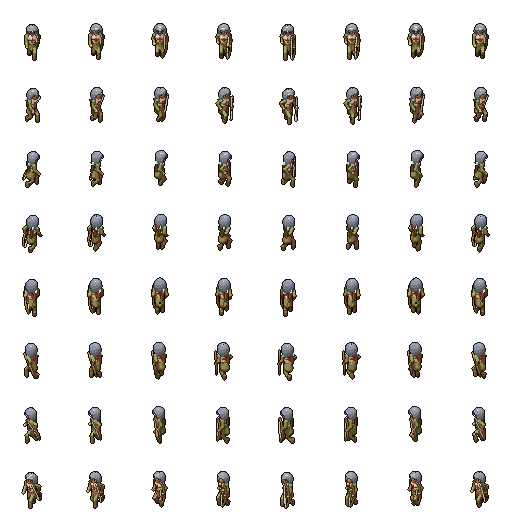
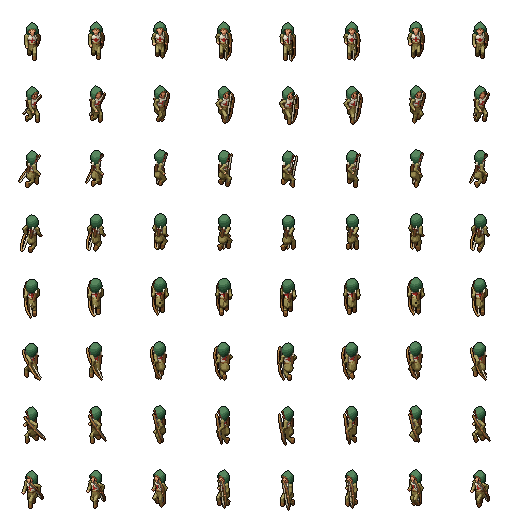
Soldier pilot fixes: longer halberd in a 96 px frame, hooded archer with a bigger bow
- Halberdier: shaft 1.65 + butt 0.4 (was 1.12 + 0.36), blade 1.5x; the shaft stands upright at rest
  (kit cheats off) and thrusts level; a 96 px frame so the thrust stays inside it.
- CharacterSheet reads the frame size from the sheet height (8 or 5 rows), the feet 6 px above the
  bottom; AgentSprite and the corpse layer use the sheet's feet. Test: test_character_frames.gd.
- Archer: a green cloth hood instead of the helmet and mail coif; a bigger bow (1.7); the bow's own
  turns override the kit's so it stands upright when drawn and its string is nearer the archer in
  every frame (checked numerically per frame).
- export_character.py and make_unit_icons.py handle bigger frames; ART_SPEC and AGENT_NOTES updated.

Claude-Session: https://claude.ai/code/session_01Ves32FQQbkr2DFicUTm3i9

diff --git a/tools/spritekiln/export_character.py b/tools/spritekiln/export_character.py
@@ -1,8 +1,9 @@
 """Copy a rendered SpriteKiln character into the game's sheets (ART_SPEC 4: assets/characters/<id>/<anim>.png).
 
 The game's sheet: rows = screen directions S, SE, E, NE, N, NW, W, SW (8 rows: nothing mirrored),
-columns = frames, 64x64 frames, the feet at (32, 58) (CharacterSheet). The spec's camera must give
-that pivot (the script checks it). Animation names map to the game's: idle -> idle, walk -> walk,
+columns = frames, 64x64 frames, the feet at (32, 58) (CharacterSheet). A long weapon may take a bigger
+frame (the spec's `size`, e.g. 96: the feet at (48, 90), 6 px above the bottom; CharacterSheet.frame_side).
+The spec's camera must give that pivot (the script checks it). Animation names map to the game's: idle -> idle, walk -> walk,
 attack -> work and work_drill (soldiers fight and drill with the same blow).
 
 Run: python3 tools/spritekiln/export_character.py <spec name> [<game character id>]
@@ -26,19 +27,20 @@ def main():
     d = os.path.join(ROOT, "tools", "spritekiln", "art", "specs", "characters", spec, "out", spec)
     meta = json.load(open(os.path.join(d, spec + ".json")))
     piv = meta["spritekiln"]["pivot"]
-    if abs(piv["x"] - 32) > 0.5 or abs(piv["y"] - 58) > 0.5:
-        sys.exit(f"pivot {piv} is not (32, 58): fix camera.center in the spec")
+    size = next(iter(meta["frames"].values()))["frame"]["w"]
+    if abs(piv["x"] - size / 2) > 0.5 or abs(piv["y"] - (size - 6)) > 0.5:
+        sys.exit(f"pivot {piv} is not ({size // 2}, {size - 6}): fix camera.center in the spec")
     atlas = Image.open(os.path.join(d, spec + ".png")).convert("RGBA")
     out_dir = os.path.join(ROOT, "assets", "characters", char)
     for anim, names in GAME_ANIMS.items():
         n = sum(1 for k in meta["frames"] if k.startswith(f"{anim}_s_"))
         if n == 0:
             continue
-        sheet = Image.new("RGBA", (64 * n, 64 * len(DIRS)))
+        sheet = Image.new("RGBA", (size * n, size * len(DIRS)))
         for row, dr in enumerate(DIRS):
             for f in range(n):
                 r = meta["frames"][f"{anim}_{dr}_{f}"]["frame"]
-                sheet.alpha_composite(atlas.crop((r["x"], r["y"], r["x"] + 64, r["y"] + 64)), (f * 64, row * 64))
+                sheet.alpha_composite(atlas.crop((r["x"], r["y"], r["x"] + size, r["y"] + size)), (f * size, row * size))
         for name in names:
             sheet.save(os.path.join(out_dir, name + ".png"))
             print(os.path.join(out_dir, name + ".png"), sheet.size)

diff --git a/tools/make_unit_icons.py b/tools/make_unit_icons.py
@@ -20,18 +20,28 @@ ROW = 0
 BUST = 16
 
 
+def frame_side(height):
+    """Side of a square frame (as CharacterSheet.frame_side): 8 rows of a multiple of 32 px, else 5 rows."""
+    if height % 8 == 0 and (height // 8) % 32 == 0:
+        return height // 8
+    if height % 5 == 0 and height >= 5 * FRAME:
+        return height // 5
+    return FRAME
+
+
 def icon(unit):
     path = os.path.join(SHEETS, unit, "idle.png")
     if not os.path.exists(path):
         return None
     sheet = Image.open(path).convert("RGBA")
-    frame = sheet.crop((0, ROW * FRAME, FRAME, ROW * FRAME + FRAME))
+    side = frame_side(sheet.height)
+    frame = sheet.crop((0, ROW * side, side, ROW * side + side))
     box = frame.getbbox()
     if box is None:
         return None
     # The body's middle column: the centre of the lower half of the figure (weapons held
     # up beside it do not move it much); the head is the topmost pixel near that column.
-    lower = frame.crop((0, (box[1] + box[3]) // 2, FRAME, box[3]))
+    lower = frame.crop((0, (box[1] + box[3]) // 2, side, box[3]))
     lb = lower.getbbox() or box
     cx = (lb[0] + lb[2]) // 2
     px = frame.load()

diff --git a/docs/ART_SPEC.md b/docs/ART_SPEC.md
@@ -64,8 +64,8 @@ assets/
 | Kafel terenu | **64×32 px** (romb 2:1) | plik 64×32. Kafle z wysokością, np. skarpy brzegu: 64×48 z romb u dołu |
 | Postać dorosła | **ok. 34 px wysokości** (było 42 px w M1) | głowa ok. 8 px. Zmiana 2026-11-05: przy 42 px ludzie byli ponad dwa razy wyżsi od drzwi. Drzwi mają ok. 26 px, ściany parterowe ok. 36–42 px |
 | Dziecko | ok. 30 px | [PÓŹNIEJ], przechodnie |
-| Płótno klatki postaci | **64×64 px** | zapas na narzędzia (kosa, łopata do pieca, włócznia) |
-| Punkt stopy (pivot) | **(32, 58)** na płótnie 64×64 | środek między stopami, dotyka ziemi |
+| Płótno klatki postaci | **64×64 px** (długa broń: większa kwadratowa klatka, np. 96×96 halabardnika, 2026-11-10) | zapas na narzędzia (kosa, łopata do pieca, włócznia) |
+| Punkt stopy (pivot) | **(32, 58)** na płótnie 64×64; w większej klatce (szerokość/2, wysokość − 6), np. (48, 90) | środek między stopami, dotyka ziemi |
 | Niesiony towar | 10–16 px | większy niż „realistycznie”, żeby był czytelny |
 | Jeździec | płótno 96×96, pivot (48, 88) | [1.0] |
 | Ikona towaru (UI) | 32×32 (rysowana w 16×16 ×2 lub natywnie 32) | **(M1)** |
@@ -147,7 +147,7 @@ Arkusz z odbiciami ma 5 wierszy (S, SE, E, NE, N), a importer to wykrywa.
 
 ### 4.3 Stany i liczba klatek
 
-Klatka ma 64×64. Arkusz to wiersze kierunków × kolumny klatek. Wartości FPS to **(M1)**.
+Klatka ma 64×64 (albo większa kwadratowa, np. 96×96: gra odczytuje jej rozmiar z wysokości arkusza, 8 albo 5 wierszy, `CharacterSheet.frame_side`). Arkusz to wiersze kierunków × kolumny klatek. Wartości FPS to **(M1)**.
 
 **Wspólne dla wszystkich cywilów:**
 

diff --git a/tools/spritekiln/AGENT_NOTES.md b/tools/spritekiln/AGENT_NOTES.md
@@ -226,6 +226,12 @@ Never call something visual good without looking at the PNG (or reading `review`
   big ellipsoid `shell` cut by planes. QA "idle slides" on rocking props is fine.
 - Kit cheats in work/attack animations: wire `with: {cheat: <channel>}` and zero it per key; direction-dependent
   angles via `pulse(yaw, c, w)` so weapons never point straight at the camera.
-- Long weapons in a 64 px frame clip in thrusts: shorten the shaft or lunge, never change `camera.scale`.
+- Long weapons in a 64 px frame clip in thrusts (about 1 unit of reach each side). Never change `camera.scale`;
+  give the character a bigger square frame instead (`size: 96`, `camera.center [0, 2.51, 0]`: feet at (48, 90));
+  the game reads the frame size from the sheet height (CharacterSheet.frame_side), export_character.py checks the pivot.
+- A kit's bone rotation can be overridden from the spec (`bones: {bow: {rot: "[bow_x, 0, bow_z]"}}`): a rotation
+  about the hand's x alone cannot raise a weapon upright with the arm stretched out. Find angles numerically:
+  `rig.Ctx(spec, env).frame('<bone>')` + `rig.socket_points` per frame (`anim.frames_of`), e.g. the bow's
+  string (socket `bow_nock`) must be nearer the torso than the grip in every frame (owner 2026-11-10).
 - Export scripts handle pivot offsets and symmetric cropping (game mirrors houses about the image width).
 - After `tools/generate_art.gd`, restore SpriteKiln/PixelLab buildings: `git checkout assets/buildings/hut/` etc.
